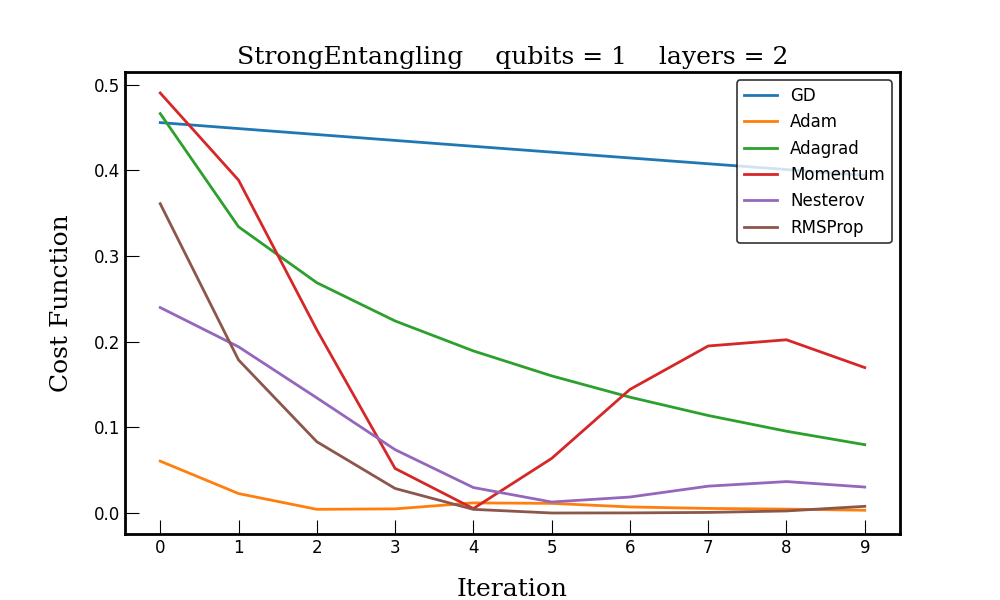
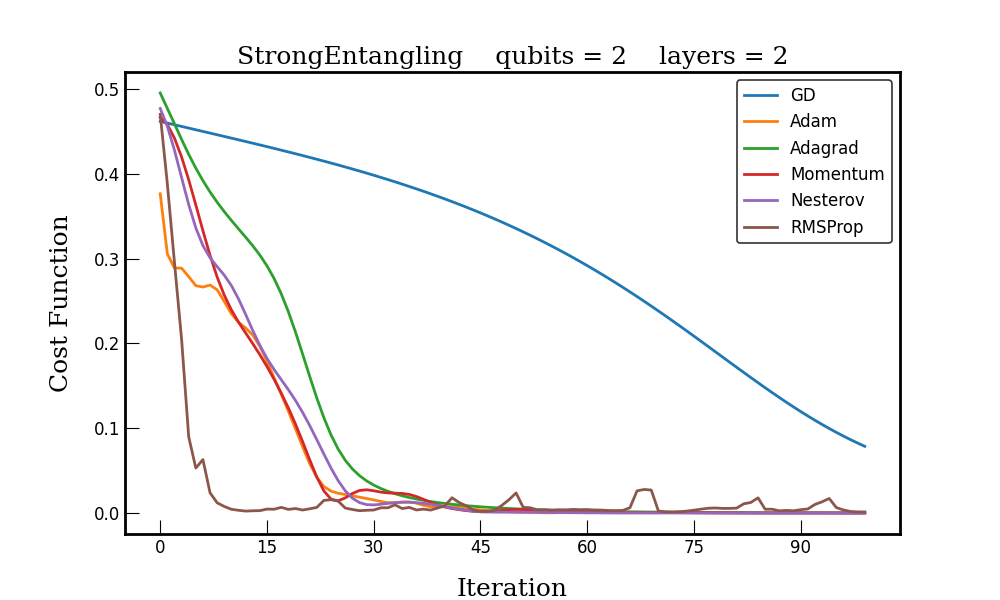
minor changes

diff --git a/src/vqls/vqls_fast_and_slow.py b/src/vqls/vqls_fast_and_slow.py
@@ -377,10 +377,10 @@ if __name__ == "__main__":
     np.random.seed(42)
 
     # number of qubits & layers
-    nqubits = 1
+    nqubits = 2
     nlayers = 2
 
-    maxiter = 10
+    maxiter = 100
 
     # random symmetric positive definite matrix
     A0, b0 = utils.get_random_ls(nqubits, easy_example=True)
